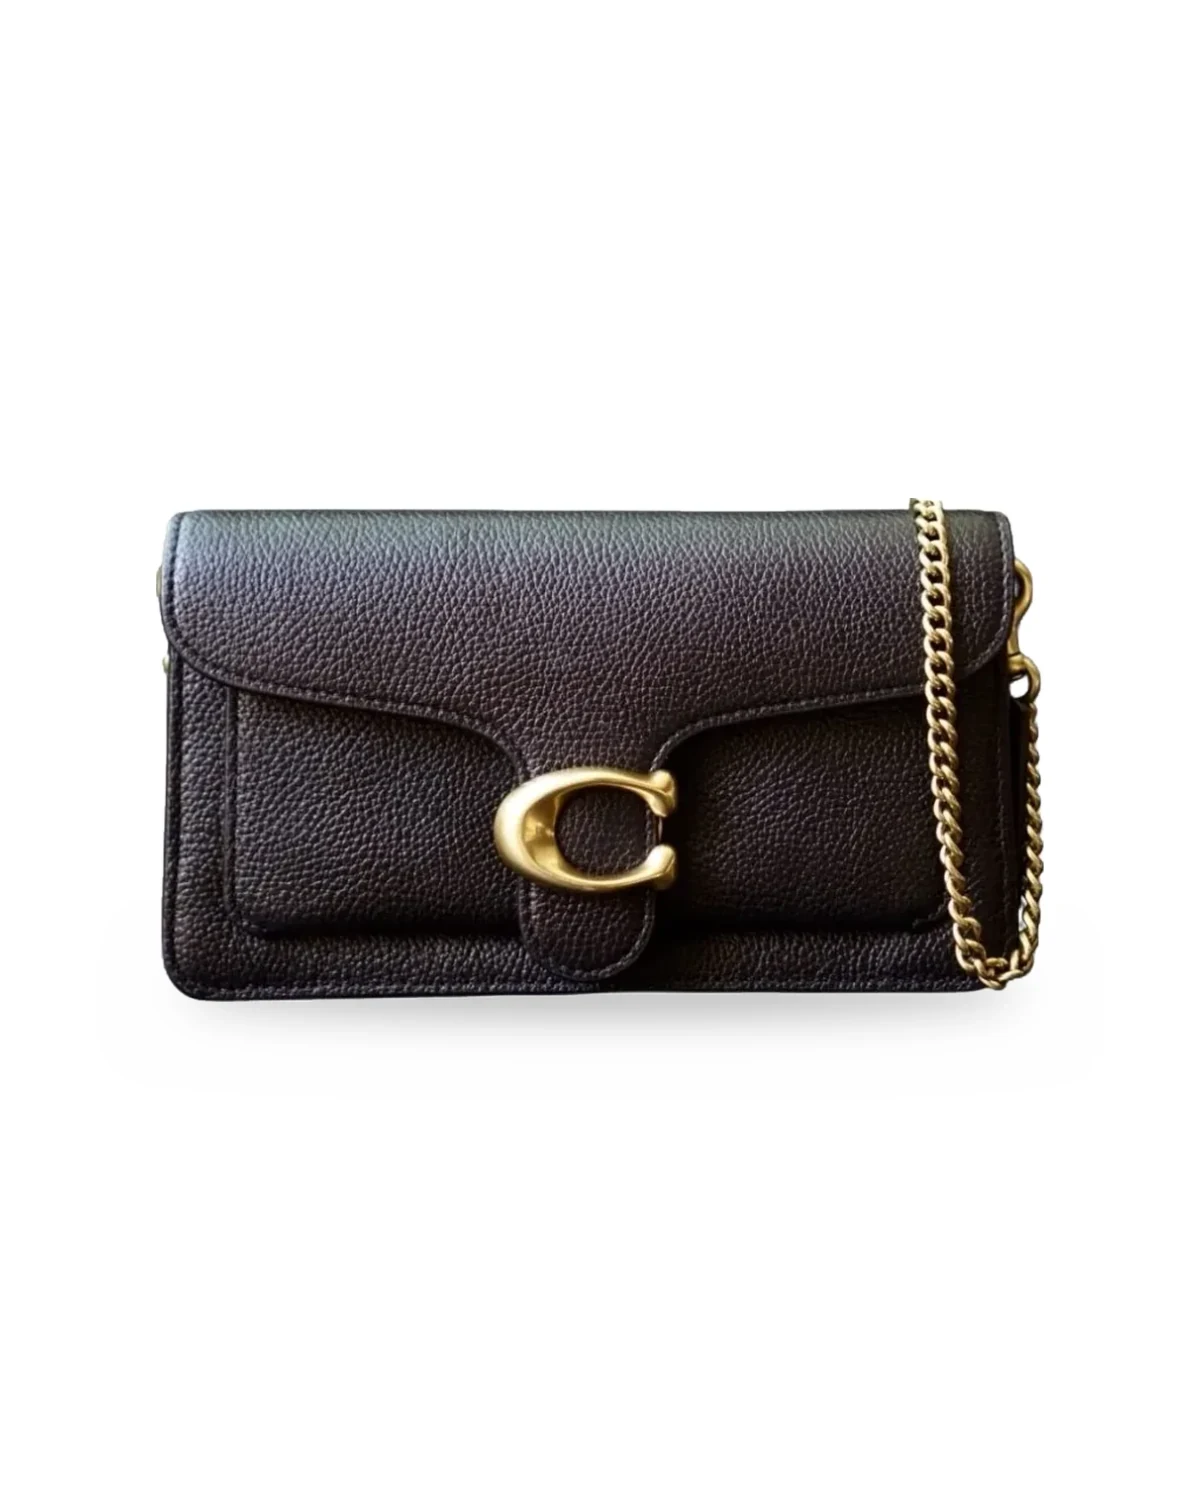
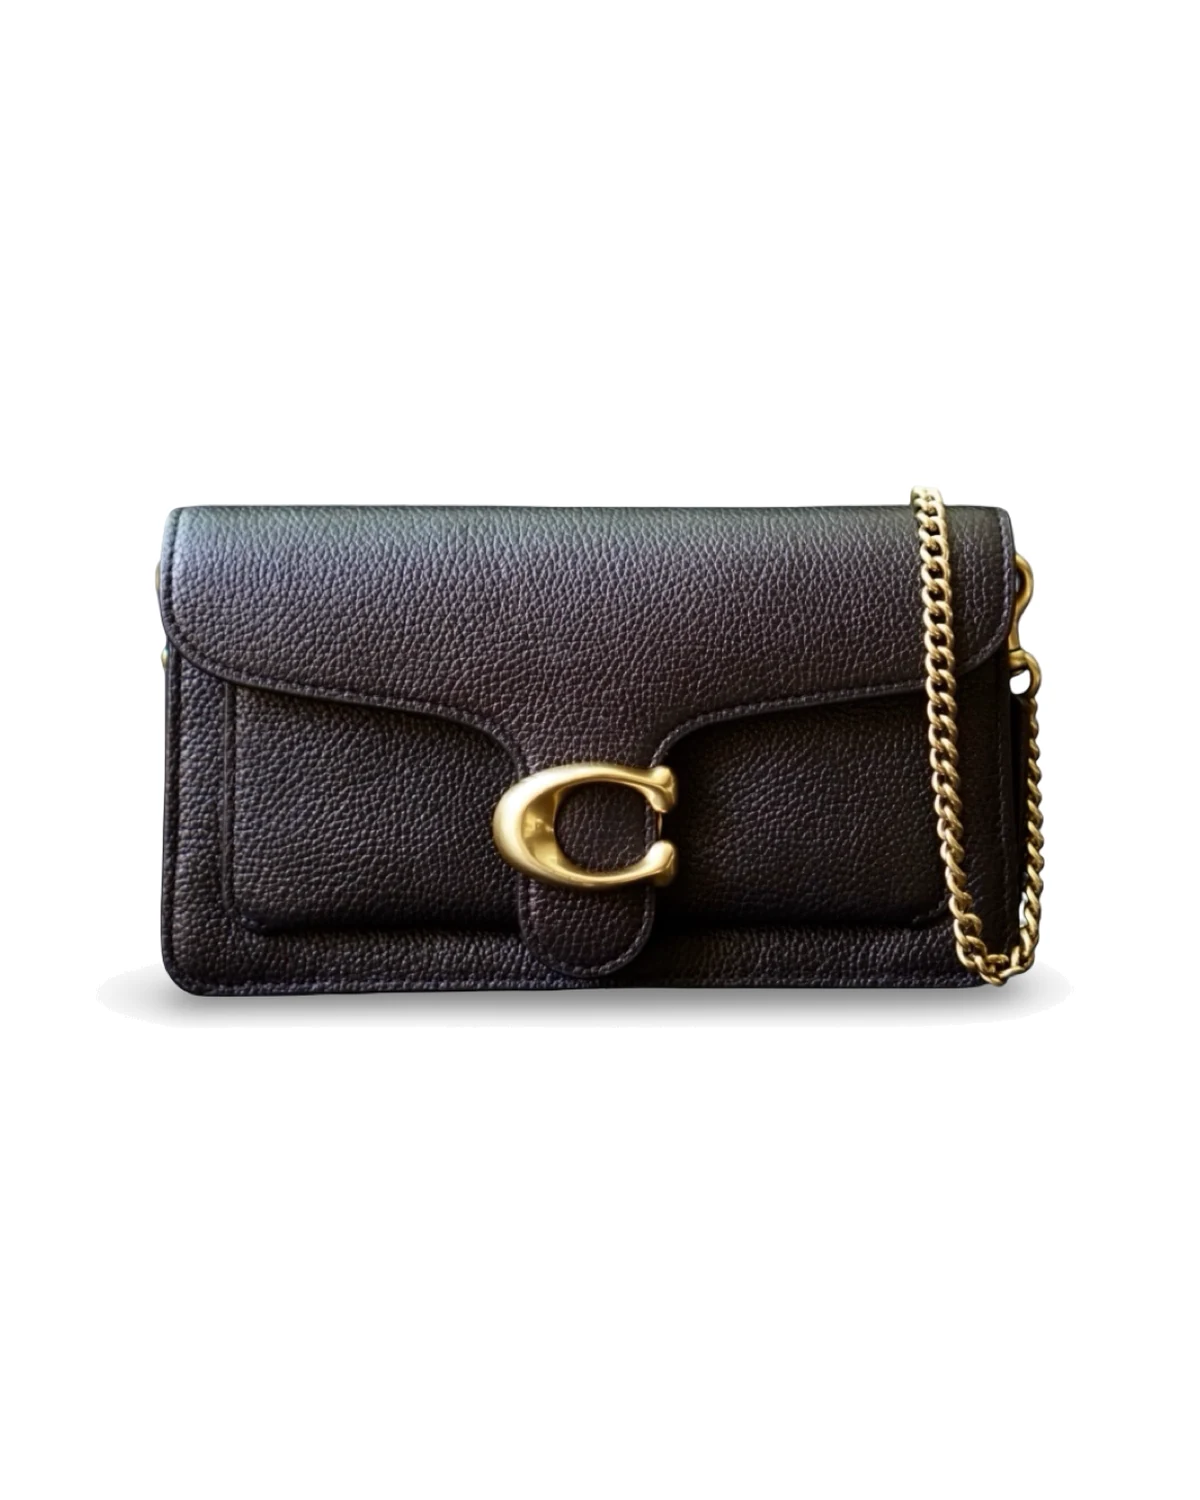
Fotos novas: Bvlgari amarela (lateral), D&G Devotion Box e Coach Tabby
Claude-Session: https://claude.ai/code/session_017J54g8czxFnWGDQWAsZJHN

Changed region(s): [[0.1233, 0.3067, 0.8942, 0.7053]]

diff --git a/aluguel/dolce-gabbana-devotion-box.html b/aluguel/dolce-gabbana-devotion-box.html
@@ -19,15 +19,15 @@
 <meta property="og:site_name" content="The Bag Room">
 <meta property="og:title" content="Dolce & Gabbana Devotion Box | Aluguel a partir de R$ 590 | The Bag Room">
 <meta property="og:description" content="Alugue a Dolce & Gabbana Devotion Box na The Bag Room. Modelo em plexiglass preto fumê com cristais e o icônico coração Devotion.">
-<meta property="og:image" content="https://www.thebagroom.com.br/img/fotos/RAJHFek.jpg">
-<meta property="og:image:secure_url" content="https://www.thebagroom.com.br/img/fotos/RAJHFek.jpg">
+<meta property="og:image" content="https://www.thebagroom.com.br/img/fotos/DGB01.jpg">
+<meta property="og:image:secure_url" content="https://www.thebagroom.com.br/img/fotos/DGB01.jpg">
 <meta property="og:image:type" content="image/jpeg">
 <meta property="og:image:alt" content="Bolsa Dolce & Gabbana Devotion Box preta">
 
 <meta name="twitter:card" content="summary_large_image">
 <meta name="twitter:title" content="Dolce & Gabbana Devotion Box | Aluguel a partir de R$ 590 | The Bag Room">
 <meta name="twitter:description" content="Bolsa Dolce & Gabbana Devotion Box disponível para aluguel na The Bag Room.">
-<meta name="twitter:image" content="https://www.thebagroom.com.br/img/fotos/RAJHFek.jpg">
+<meta name="twitter:image" content="https://www.thebagroom.com.br/img/fotos/DGB01.jpg">
 
 <link rel="icon" type="image/png" href="/favicon.png">
 <link rel="apple-touch-icon" href="/favicon.png">
@@ -947,7 +947,7 @@ body {
     }
   </style>
 <script src="/cookie-preferences.js?v=20261110-1" defer></script>
-<script type="application/ld+json" id="tbr-product-ld">{"@context": "https://schema.org", "@type": "Product", "name": "Dolce & Gabbana Devotion Box", "brand": {"@type": "Brand", "name": "Dolce & Gabbana"}, "description": "Alugue a Dolce & Gabbana Devotion Box na The Bag Room. Bolsa autêntica em plexiglass preto fumê com cristais e ferragens douradas.", "url": "https://www.thebagroom.com.br/aluguel/dolce-gabbana-devotion-box.html", "category": "Aluguel de bolsa de luxo", "offers": {"@type": "Offer", "url": "https://www.thebagroom.com.br/aluguel/dolce-gabbana-devotion-box.html", "priceCurrency": "BRL", "price": "590.00", "availability": "https://schema.org/InStock", "itemCondition": "https://schema.org/UsedCondition", "seller": {"@type": "Organization", "name": "The Bag Room"}}, "image": ["https://www.thebagroom.com.br/img/fotos/RAJHFek.jpg"]}</script>
+<script type="application/ld+json" id="tbr-product-ld">{"@context": "https://schema.org", "@type": "Product", "name": "Dolce & Gabbana Devotion Box", "brand": {"@type": "Brand", "name": "Dolce & Gabbana"}, "description": "Alugue a Dolce & Gabbana Devotion Box na The Bag Room. Bolsa autêntica em plexiglass preto fumê com cristais e ferragens douradas.", "url": "https://www.thebagroom.com.br/aluguel/dolce-gabbana-devotion-box.html", "category": "Aluguel de bolsa de luxo", "offers": {"@type": "Offer", "url": "https://www.thebagroom.com.br/aluguel/dolce-gabbana-devotion-box.html", "priceCurrency": "BRL", "price": "590.00", "availability": "https://schema.org/InStock", "itemCondition": "https://schema.org/UsedCondition", "seller": {"@type": "Organization", "name": "The Bag Room"}}, "image": ["https://www.thebagroom.com.br/img/fotos/DGB01.jpg"]}</script>
 <script type="application/ld+json">{"@context": "https://schema.org", "@type": "BreadcrumbList", "itemListElement": [{"@type": "ListItem", "position": 1, "name": "Início", "item": "https://www.thebagroom.com.br/"}, {"@type": "ListItem", "position": 2, "name": "Alugar bolsas", "item": "https://www.thebagroom.com.br/aluguel.html"}, {"@type": "ListItem", "position": 3, "name": "Dolce & Gabbana Devotion Box", "item": "https://www.thebagroom.com.br/aluguel/dolce-gabbana-devotion-box.html"}]}</script>
 <script>document.documentElement.classList.add('tbr-carregando');setTimeout(function(){document.documentElement.classList.remove('tbr-carregando')},4000);</script>
 <style id="tbr-carregando-css">.tbr-carregando .info>.preco,.tbr-carregando .info .opcoes,.tbr-carregando .tbr-caution>span,.tbr-carregando .info .detalhes,.tbr-carregando .tbr-mobile-rent>span,.tbr-carregando .grid .card .preco,.tbr-carregando .week-price{opacity:0}.info>.preco,.info .opcoes,.tbr-caution>span,.info .detalhes,.tbr-mobile-rent>span,.grid .card .preco,.week-price{transition:opacity .25s ease}</style>
@@ -988,11 +988,11 @@ body {
 </a>
 
     <div class="slider" id="slider">
-      <img fetchpriority="high" src="/img/fotos/RAJHFek.webp" alt="Dolce &amp; Gabbana Devotion Box – foto 1">
-<img src="/img/fotos/8znoA5O.webp" alt="Dolce &amp; Gabbana Devotion Box – foto 2">
-<img src="/img/fotos/8YsxmLs.webp" alt="Dolce &amp; Gabbana Devotion Box – foto 3">
-<img src="/img/fotos/fskfLJX.webp" alt="Dolce &amp; Gabbana Devotion Box – foto 4">
-<img src="/img/fotos/TxofWfI.webp" alt="Dolce &amp; Gabbana Devotion Box – foto 5">
+      <img fetchpriority="high" src="/img/fotos/DGB01.webp" alt="Dolce &amp; Gabbana Devotion Box, frente">
+<img src="/img/fotos/DGB02.webp" alt="Dolce &amp; Gabbana Devotion Box, costas">
+<img src="/img/fotos/DGB03.webp" alt="Dolce &amp; Gabbana Devotion Box, lateral">
+<img src="/img/fotos/DGB04.webp" alt="Dolce &amp; Gabbana Devotion Box, vista três quartos">
+<img src="/img/fotos/fskfLJX.webp" alt="Dolce &amp; Gabbana Devotion Box, detalhe do coração Devotion">
     </div>
     
     <div class="seta esquerda" onclick="slide(-1)">❮</div>
@@ -1742,7 +1742,7 @@ let dataFimBR = dataFimObj.toLocaleDateString("pt-BR");
 const checkout = {
   bolsaSlug: BOLSA_SLUG,
   bolsaNome: window.tbrBagFields?.nome || "Dolce & Gabbana Devotion Box",
-  imagem: window.tbrGalleryImage || "/img/fotos/RAJHFek.webp",
+  imagem: window.tbrGalleryImage || "/img/fotos/DGB01.webp",
   dataInicio: data,
   dataInicioISO,
   dataFim: dataFimBR,

diff --git a/aluguel/coach-tabby-chain-19.html b/aluguel/coach-tabby-chain-19.html
@@ -22,15 +22,15 @@
 <meta property="og:title" content="Coach Tabby Chain 19 | Aluguel a partir de R$ 290 | The Bag Room">
 <meta property="og:description" content="Alugue a Coach Tabby Chain 19 na The Bag Room. Modelo compacto em couro preto com ferragens douradas.">
 
-<meta property="og:image" content="https://www.thebagroom.com.br/img/fotos/Vw8sxhs.jpg">
-<meta property="og:image:secure_url" content="https://www.thebagroom.com.br/img/fotos/Vw8sxhs.jpg">
+<meta property="og:image" content="https://www.thebagroom.com.br/img/fotos/CTab01.jpg">
+<meta property="og:image:secure_url" content="https://www.thebagroom.com.br/img/fotos/CTab01.jpg">
 <meta property="og:image:type" content="image/jpeg">
 <meta property="og:image:alt" content="Bolsa Coach Tabby Chain 19 preta">
 
 <meta name="twitter:card" content="summary_large_image">
 <meta name="twitter:title" content="Coach Tabby Chain 19 | Aluguel a partir de R$ 290 | The Bag Room">
 <meta name="twitter:description" content="Bolsa Coach Tabby Chain 19 disponível para aluguel na The Bag Room.">
-<meta name="twitter:image" content="https://www.thebagroom.com.br/img/fotos/Vw8sxhs.jpg">
+<meta name="twitter:image" content="https://www.thebagroom.com.br/img/fotos/CTab01.jpg">
 
 <link rel="icon" type="image/png" href="/favicon.png">
 <link rel="apple-touch-icon" href="/favicon.png">
@@ -892,7 +892,7 @@ body {
     }
   </style>
 <script src="/cookie-preferences.js?v=20261110-1" defer></script>
-<script type="application/ld+json" id="tbr-product-ld">{"@context": "https://schema.org", "@type": "Product", "name": "Coach Tabby Chain 19", "brand": {"@type": "Brand", "name": "Coach"}, "description": "Alugue a Coach Tabby Chain 19 na The Bag Room. Bolsa autêntica em couro preto com ferragens douradas, disponível para locação.", "url": "https://www.thebagroom.com.br/aluguel/coach-tabby-chain-19.html", "category": "Aluguel de bolsa de luxo", "offers": {"@type": "Offer", "url": "https://www.thebagroom.com.br/aluguel/coach-tabby-chain-19.html", "priceCurrency": "BRL", "price": "290.00", "availability": "https://schema.org/InStock", "itemCondition": "https://schema.org/UsedCondition", "seller": {"@type": "Organization", "name": "The Bag Room"}}, "image": ["https://www.thebagroom.com.br/img/fotos/Vw8sxhs.jpg"]}</script>
+<script type="application/ld+json" id="tbr-product-ld">{"@context": "https://schema.org", "@type": "Product", "name": "Coach Tabby Chain 19", "brand": {"@type": "Brand", "name": "Coach"}, "description": "Alugue a Coach Tabby Chain 19 na The Bag Room. Bolsa autêntica em couro preto com ferragens douradas, disponível para locação.", "url": "https://www.thebagroom.com.br/aluguel/coach-tabby-chain-19.html", "category": "Aluguel de bolsa de luxo", "offers": {"@type": "Offer", "url": "https://www.thebagroom.com.br/aluguel/coach-tabby-chain-19.html", "priceCurrency": "BRL", "price": "290.00", "availability": "https://schema.org/InStock", "itemCondition": "https://schema.org/UsedCondition", "seller": {"@type": "Organization", "name": "The Bag Room"}}, "image": ["https://www.thebagroom.com.br/img/fotos/CTab01.jpg"]}</script>
 <script type="application/ld+json">{"@context": "https://schema.org", "@type": "BreadcrumbList", "itemListElement": [{"@type": "ListItem", "position": 1, "name": "Início", "item": "https://www.thebagroom.com.br/"}, {"@type": "ListItem", "position": 2, "name": "Alugar bolsas", "item": "https://www.thebagroom.com.br/aluguel.html"}, {"@type": "ListItem", "position": 3, "name": "Coach Tabby Chain 19", "item": "https://www.thebagroom.com.br/aluguel/coach-tabby-chain-19.html"}]}</script>
 <script>document.documentElement.classList.add('tbr-carregando');setTimeout(function(){document.documentElement.classList.remove('tbr-carregando')},4000);</script>
 <style id="tbr-carregando-css">.tbr-carregando .info>.preco,.tbr-carregando .info .opcoes,.tbr-carregando .tbr-caution>span,.tbr-carregando .info .detalhes,.tbr-carregando .tbr-mobile-rent>span,.tbr-carregando .grid .card .preco,.tbr-carregando .week-price{opacity:0}.info>.preco,.info .opcoes,.tbr-caution>span,.info .detalhes,.tbr-mobile-rent>span,.grid .card .preco,.week-price{transition:opacity .25s ease}</style>
@@ -933,13 +933,13 @@ body {
 </a>
 
     <div class="slider" id="slider">
-<img fetchpriority="high" src="/img/fotos/Vw8sxhs.webp" alt="Coach Tabby Chain 19 – foto 1">
-<img src="/img/fotos/UIui1Ql.webp" alt="Coach Tabby Chain 19 – foto 2">
-<img src="/img/fotos/W3t3Pfc.webp" alt="Coach Tabby Chain 19 – foto 3">
+<img fetchpriority="high" src="/img/fotos/CTab01.webp" alt="Coach Tabby Chain 19 – foto 1">
+<img src="/img/fotos/CTab02.webp" alt="Coach Tabby Chain 19 – foto 2">
+<img src="/img/fotos/CTab03.webp" alt="Coach Tabby Chain 19 – foto 3">
 <img src="/img/fotos/r1bTKHy.webp" alt="Coach Tabby Chain 19 – foto 4">
 <img src="/img/fotos/YaS0jtG.webp" alt="Coach Tabby Chain 19 – foto 5">
 <img src="/img/fotos/OTKwj3J.webp" alt="Coach Tabby Chain 19 – foto 6">
-<img src="/img/fotos/AX5RV5D.webp" alt="Coach Tabby Chain 19 – foto 7">
+<img src="/img/fotos/CTab04.webp" alt="Coach Tabby Chain 19 – foto 7">
     </div>
     
     <div class="seta esquerda" onclick="slide(-1)">❮</div>
@@ -1685,7 +1685,7 @@ let dataFimBR = dataFimObj.toLocaleDateString("pt-BR");
 const checkout = {
   bolsaSlug: BOLSA_SLUG,
   bolsaNome: window.tbrBagFields?.nome || "Coach Tabby Chain 19",
-  imagem: window.tbrGalleryImage || "/img/fotos/Vw8sxhs.webp",
+  imagem: window.tbrGalleryImage || "/img/fotos/CTab01.webp",
   dataInicio: data,
   dataInicioISO,
   dataFim: dataFimBR,

diff --git a/aluguel.html b/aluguel.html
@@ -1621,7 +1621,7 @@ data-cor="Verde">
   <div class="preco">A partir de R$ 590</div>
 </a>
 
-<a href="https://www.thebagroom.com.br/aluguel/bvlgari-micro-amarela.html" class="card" data-fotos="/img/vitrine/7J3P9Fr-2.webp?v=3|/img/vitrine/VBhQdfh-s.webp?v=3" data-bolsa-slug="bvlgari-micro-amarela" data-marca="Bvlgari" data-cor="Amarelo">
+<a href="https://www.thebagroom.com.br/aluguel/bvlgari-micro-amarela.html" class="card" data-fotos="/img/vitrine/7J3P9Fr-2.webp?v=3|/img/vitrine/BvAma03-s.webp?v=1" data-bolsa-slug="bvlgari-micro-amarela" data-marca="Bvlgari" data-cor="Amarelo">
   <div class="img-box">
     <span class="tag">Disponível</span>
 <img loading="lazy" decoding="async" src="/img/vitrine/BvAma01l.webp?v=1" alt="Bolsa Bvlgari Serpenti Forever Micro Amarelo">
@@ -1648,11 +1648,11 @@ data-cor="Verde">
   <div class="preco">A partir de R$ 190</div>
 </a>
 
-<a href="https://www.thebagroom.com.br/aluguel/dolce-gabbana-devotion-box.html" class="card" data-fotos="/img/vitrine/TxofWfI-2.webp?v=3|/img/vitrine/8YsxmLs-s.webp?v=3" data-bolsa-slug="dolce-gabbana-devotion-box" data-marca="Dolce &amp; Gabbana" data-cor="Marrom">
+<a href="https://www.thebagroom.com.br/aluguel/dolce-gabbana-devotion-box.html" class="card" data-fotos="/img/vitrine/DGB04-2.webp?v=1|/img/vitrine/DGB02-s.webp?v=1" data-bolsa-slug="dolce-gabbana-devotion-box" data-marca="Dolce &amp; Gabbana" data-cor="Marrom">
   <div class="img-box">
     <span class="tag">Disponível</span>
-<img loading="lazy" decoding="async" src="/img/vitrine/RAJHFekl.webp?v=3" alt="Bolsa Dolce &amp; Gabbana Devotion Box">
-    <img class="img-hover" src="/img/vitrine/TxofWfI-2.webp?v=3" alt="" aria-hidden="true" loading="lazy" decoding="async">
+<img loading="lazy" decoding="async" src="/img/vitrine/DGB01l.webp?v=1" alt="Bolsa Dolce &amp; Gabbana Devotion Box">
+    <img class="img-hover" src="/img/vitrine/DGB04-2.webp?v=1" alt="" aria-hidden="true" loading="lazy" decoding="async">
   </div>
   <div class="nome">
     <span class="marca">Dolce &amp; Gabbana</span>
@@ -1688,11 +1688,11 @@ data-cor="Verde">
   <div class="preco">A partir de R$ 590</div>
 </a>
 
-<a href="https://www.thebagroom.com.br/aluguel/coach-tabby-chain-19.html" class="card" data-fotos="/img/vitrine/UIui1Ql-s.webp?v=3|/img/vitrine/AX5RV5D-s.webp?v=3|/img/vitrine/W3t3Pfc-s.webp?v=3" data-bolsa-slug="coach-tabby-chain-19" data-marca="Coach" data-cor="Preto">
+<a href="https://www.thebagroom.com.br/aluguel/coach-tabby-chain-19.html" class="card" data-fotos="/img/vitrine/CTab02-s.webp?v=1|/img/vitrine/CTab04-s.webp?v=1|/img/vitrine/CTab03-s.webp?v=1" data-bolsa-slug="coach-tabby-chain-19" data-marca="Coach" data-cor="Preto">
   <div class="img-box">
     <span class="tag">Disponível</span>
-<img loading="lazy" decoding="async" src="/img/vitrine/CTab01l.webp?v=1" alt="Bolsa Coach Tabby Chain 19">
-    <img class="img-hover" src="/img/vitrine/UIui1Ql-s.webp?v=3" alt="" aria-hidden="true" loading="lazy" decoding="async">
+<img loading="lazy" decoding="async" src="/img/vitrine/CTab01l.webp?v=2" alt="Bolsa Coach Tabby Chain 19">
+    <img class="img-hover" src="/img/vitrine/CTab02-s.webp?v=1" alt="" aria-hidden="true" loading="lazy" decoding="async">
   </div>
   <div class="nome">
     <span class="marca">Coach</span>

diff --git a/index.html b/index.html
@@ -1111,7 +1111,7 @@
         <a class="tbr-m-tile" href="/aluguel.html?marca=Gucci"><span class="tbr-m-img"><img loading="lazy" decoding="async" src="/img/fotos/cWeUrHzl.webp" alt="Bolsas Gucci"></span><span class="tbr-m-tile-name">Gucci</span></a>
         <a class="tbr-m-tile" href="/aluguel.html?marca=Bvlgari"><span class="tbr-m-img"><img loading="lazy" decoding="async" src="/img/fotos/8GdXEuTl.webp" alt="Bolsas Bvlgari"></span><span class="tbr-m-tile-name">Bvlgari</span></a>
         <a class="tbr-m-tile" href="/aluguel.html?marca=Fendi"><span class="tbr-m-img"><img loading="lazy" decoding="async" src="/img/fotos/FZuc01.webp" alt="Bolsas Fendi"></span><span class="tbr-m-tile-name">Fendi</span></a>
-        <a class="tbr-m-tile" href="/aluguel.html?marca=Dolce%20Gabbana"><span class="tbr-m-img"><img loading="lazy" decoding="async" src="/img/fotos/RAJHFekl.webp" alt="Bolsas Dolce &amp; Gabbana"></span><span class="tbr-m-tile-name">Dolce &amp; Gabbana</span></a>
+        <a class="tbr-m-tile" href="/aluguel.html?marca=Dolce%20Gabbana"><span class="tbr-m-img"><img loading="lazy" decoding="async" src="/img/fotos/DGB01.webp" alt="Bolsas Dolce &amp; Gabbana"></span><span class="tbr-m-tile-name">Dolce &amp; Gabbana</span></a>
         <a class="tbr-m-tile" href="/aluguel.html?marca=Kate%20Spade"><span class="tbr-m-img"><img loading="lazy" decoding="async" src="/img/fotos/b9aeszvl.webp" alt="Bolsas Kate Spade"></span><span class="tbr-m-tile-name">Kate Spade</span></a>
       </div>
       <div class="tbr-m-pager" data-carousel-nav="tbrMaisons">

diff --git a/bag-manual-photos.js b/bag-manual-photos.js
@@ -4,7 +4,7 @@ window.TBR_MANUAL_PHOTOS = {
     "gallery": [
       "/img/fotos/uKmvItm.webp",
       "/img/fotos/7J3P9Fr.webp",
-      "/img/fotos/VBhQdfh.webp",
+      "/img/fotos/BvAma03.webp",
       "/img/fotos/k5shGjv.webp",
       "/img/fotos/gRt4hw5.webp"
     ]
@@ -59,25 +59,25 @@ window.TBR_MANUAL_PHOTOS = {
     ]
   },
   "coach-tabby-chain-19": {
-    "cover": "/img/fotos/Vw8sxhs.webp",
+    "cover": "/img/fotos/CTab01.webp",
     "gallery": [
-      "/img/fotos/Vw8sxhs.webp",
-      "/img/fotos/UIui1Ql.webp",
-      "/img/fotos/W3t3Pfc.webp",
+      "/img/fotos/CTab01.webp",
+      "/img/fotos/CTab02.webp",
+      "/img/fotos/CTab03.webp",
       "/img/fotos/r1bTKHy.webp",
       "/img/fotos/YaS0jtG.webp",
       "/img/fotos/OTKwj3J.webp",
-      "/img/fotos/AX5RV5D.webp"
+      "/img/fotos/CTab04.webp"
     ]
   },
   "dolce-gabbana-devotion-box": {
-    "cover": "/img/fotos/RAJHFek.webp",
+    "cover": "/img/fotos/DGB01.webp",
     "gallery": [
-      "/img/fotos/RAJHFek.webp",
-      "/img/fotos/8znoA5O.webp",
-      "/img/fotos/8YsxmLs.webp",
-      "/img/fotos/fskfLJX.webp",
-      "/img/fotos/TxofWfI.webp"
+      "/img/fotos/DGB01.webp",
+      "/img/fotos/DGB02.webp",
+      "/img/fotos/DGB03.webp",
+      "/img/fotos/DGB04.webp",
+      "/img/fotos/fskfLJX.webp"
     ]
   },
   "dolcegabbana-iguana": {

diff --git a/aluguel/bvlgari-micro-amarela.html b/aluguel/bvlgari-micro-amarela.html
@@ -927,7 +927,7 @@ body {
     <div class="slider" id="slider">
 <img fetchpriority="high" src="/img/fotos/uKmvItm.webp" alt="Bvlgari Serpenti Micro Amarela – foto 1">
 <img src="/img/fotos/7J3P9Fr.webp" alt="Bvlgari Serpenti Micro Amarela – foto 2">
-<img src="/img/fotos/VBhQdfh.webp" alt="Bvlgari Serpenti Micro Amarela – foto 3">
+<img src="/img/fotos/BvAma03.webp" alt="Bvlgari Serpenti Micro Amarela – foto 3">
 <img src="/img/fotos/k5shGjv.webp" alt="Bvlgari Serpenti Micro Amarela – foto 4">
 <img src="/img/fotos/gRt4hw5.webp" alt="Bvlgari Serpenti Micro Amarela – foto 5">
                                         

diff --git a/aluguel/bolsa.html b/aluguel/bolsa.html
@@ -923,7 +923,7 @@ body {
     <div class="slider" id="slider">
 <img fetchpriority="high" src="/img/fotos/uKmvItm.webp" alt="Bvlgari Serpenti Micro – foto 1">
 <img src="/img/fotos/7J3P9Fr.webp" alt="Bvlgari Serpenti Micro – foto 2">
-<img src="/img/fotos/VBhQdfh.webp" alt="Bvlgari Serpenti Micro – foto 3">
+<img src="/img/fotos/BvAma03.webp" alt="Bvlgari Serpenti Micro – foto 3">
 <img src="/img/fotos/k5shGjv.webp" alt="Bvlgari Serpenti Micro – foto 4">
 <img src="/img/fotos/gRt4hw5.webp" alt="Bvlgari Serpenti Micro – foto 5">
                                         
